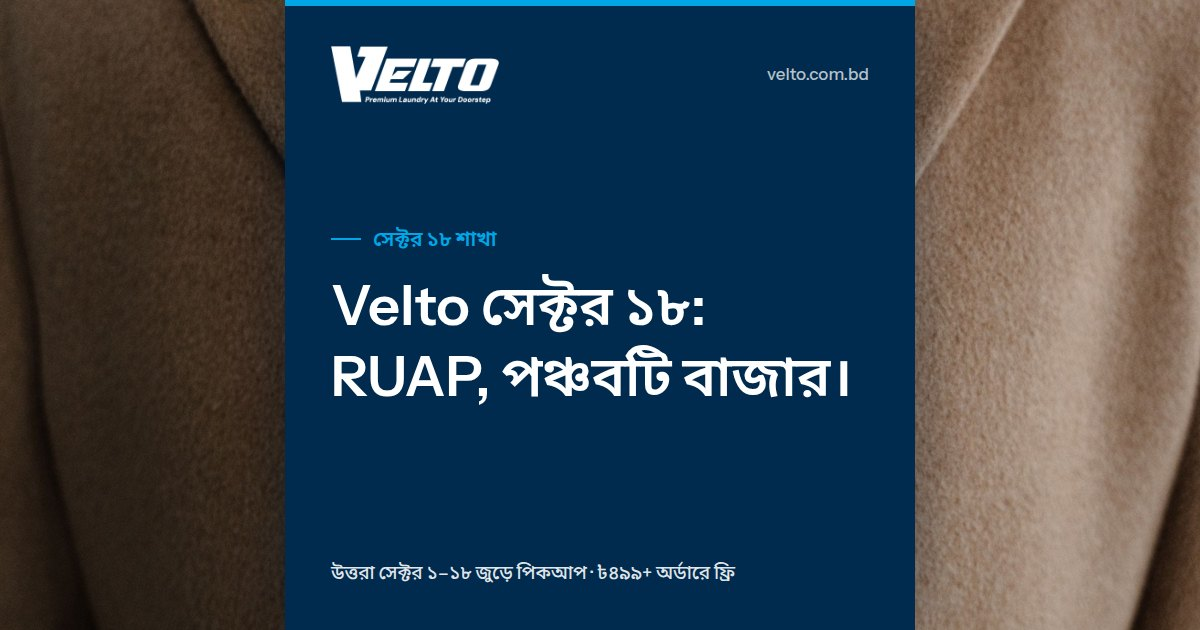
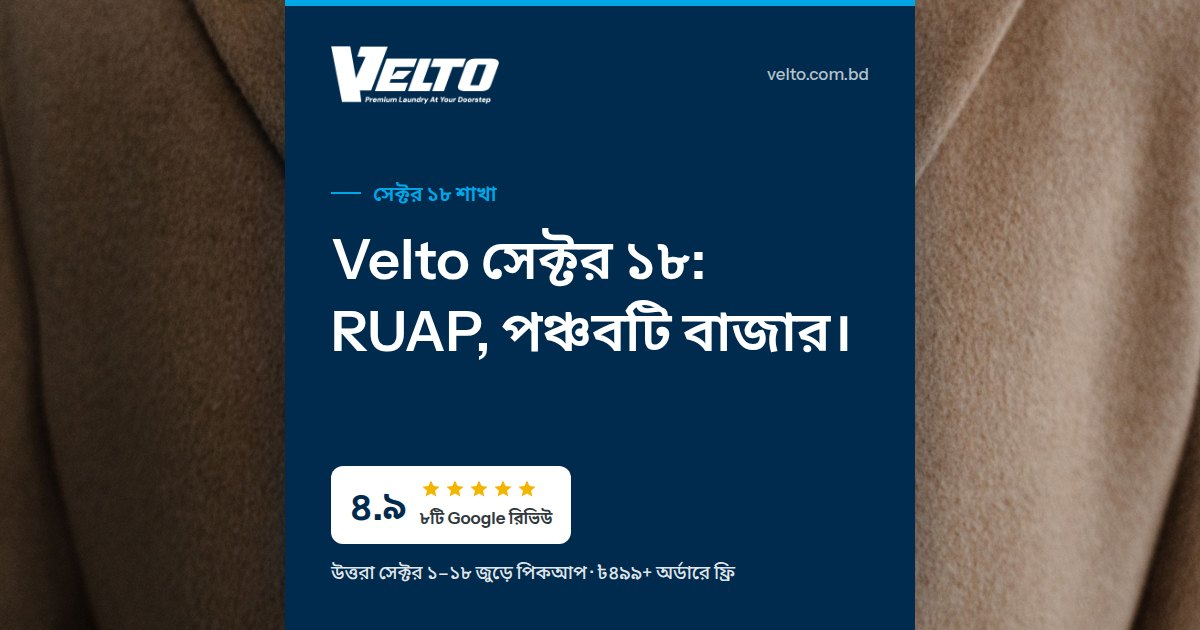
Share cards for the remaining pages; Sector 18's own rating
- Book, Quote and Track get cards in English and Bangla (via
  pageMetadata; the Bangla card is used although these pages stay out of
  the index)
- Sign in and Create account get cards through a new shareCardMetadata
  helper, in both languages
- Privacy, Terms and Cookie Policy get English cards (no Bangla version
  of those pages yet), without the rating badge
- Sector 18 now shows its own Google profile: 4.9 from 8 reviews (outlet
  settings in the Command Center), instead of no badge

Account pages and the 404 keep the default brand card.

Claude-Session: https://claude.ai/code/session_01A9jSKPykTPyhom5hxSyciV

Changed region(s): [[0.2775, 0.3619, 0.7092, 0.6333], [0.2775, 0.7238, 0.4933, 0.8746], [0.3083, 0.2714, 0.4317, 0.3317]]

diff --git a/src/lib/seo/page-metadata.ts b/src/lib/seo/page-metadata.ts
@@ -16,7 +16,7 @@ const DEFAULT_SHARE_IMAGE = { url: "/opengraph-image", width: 1200, height: 630 
  * the page's headline and photo. Other pages use the brand card.
  */
 const SHARE_CARD_PAGES = new Set([
-  "/", "/services", "/pricing", "/how-it-works", "/regular-laundry", "/locations", "/about",
+  "/", "/services", "/pricing", "/how-it-works", "/regular-laundry", "/locations", "/about", "/book", "/quote", "/track",
   "/locations/sector-11", "/locations/sector-18",
   ...["dry-cleaning", "wash-and-iron", "ironing", "curtain-cleaning", "carpet-cleaning", "blanket-comforter-cleaning", "express"].map((s) => `/services/${s}`),
 ]);
@@ -24,8 +24,14 @@ const SHARE_CARD_PAGES = new Set([
 /** The Bangla cards (name-bn.jpg) are in public/images/share: /bn pages show the Bangla headline. */
 const BANGLA_CARDS = true;
 
+/** Pages outside pageMetadata with their own card: sign-in, sign-up and the legal pages (English only). */
+const OWN_CARD_PAGES = new Set(["/login", "/signup"]);
+const BANGLA_UNINDEXED = new Set(["/book", "/quote", "/track"]);
+const ENGLISH_CARD_PAGES = new Set(["/privacy", "/terms", "/cookies"]);
+
 function shareImage(path: string, locale: "en" | "bn") {
-  if (!SHARE_CARD_PAGES.has(path)) return DEFAULT_SHARE_IMAGE;
+  if (ENGLISH_CARD_PAGES.has(path)) locale = "en";
+  else if (!SHARE_CARD_PAGES.has(path) && !OWN_CARD_PAGES.has(path)) return DEFAULT_SHARE_IMAGE;
   const name = path === "/" ? "home" : path.slice(1).replace(/\//g, "-");
   return { url: `/images/share/${name}${locale === "bn" && BANGLA_CARDS ? "-bn" : ""}.jpg`, width: 1200, height: 630 };
 }
@@ -51,7 +57,8 @@ export async function pageMetadata(path: string, options: { noindex?: boolean } 
   const description = (locale === "bn" ? override.descriptionBn : undefined) ?? local?.description ?? override.description ?? route?.description;
   const canonical = banglaIndexable(path) ? localizeHref(path, locale) : path;
   const untranslated = locale === "bn" && !banglaIndexable(path);
-  const card = shareImage(path, locale === "bn" && !untranslated ? "bn" : "en");
+  // Book, quote and track are in Bangla but kept out of the index, so they count as "untranslated" above.
+  const card = shareImage(path, locale === "bn" && (!untranslated || BANGLA_UNINDEXED.has(path)) ? "bn" : "en");
   return {
     title,
     description,
@@ -85,5 +92,18 @@ export async function alternatesFor(path: string): Promise<NonNullable<Metadata[
   return {
     canonical: localizeHref(path, await getLocale()),
     languages: { en: path, bn: localizeHref(path, "bn"), "x-default": path },
+  };
+}
+
+/**
+ * Share card for a page that builds its own metadata (sign-in, sign-up, legal pages).
+ * A page's openGraph object replaces the root one, so the title goes in with the image.
+ */
+export async function shareCardMetadata(path: string, title: string, description?: string): Promise<Pick<Metadata, "openGraph" | "twitter">> {
+  const locale = await getLocale();
+  const card = shareImage(path, locale === "bn" ? "bn" : "en");
+  return {
+    openGraph: { title, description, siteName: "Velto Premium Laundry", type: "website", images: [{ ...card, alt: title }] },
+    twitter: { card: "summary_large_image", title, description, images: [card.url] },
   };
 }

diff --git a/src/app/[lang]/(site)/signup/page.tsx b/src/app/[lang]/(site)/signup/page.tsx
@@ -5,13 +5,13 @@ import { AccountsUnavailable, SignedInNotice, StaffAccountNotice } from "@/compo
 import { authProviders } from "@/lib/customer/providers";
 import { getCustomerSession } from "@/lib/customer/portal";
 import { signedInAs, safeNextPath } from "@/lib/customer/validation";
-import { alternatesFor } from "@/lib/seo/page-metadata";
+import { alternatesFor, shareCardMetadata } from "@/lib/seo/page-metadata";
 import { accountText } from "@/content/i18n/account";
 import { getLocale } from "@/lib/i18n/server";
 
 export async function generateMetadata(): Promise<Metadata> {
   const title = accountText(await getLocale()).meta.signUp;
-  return { title, robots: { index: false, follow: false }, alternates: await alternatesFor("/signup") };
+  return { title, robots: { index: false, follow: false }, alternates: await alternatesFor("/signup"), ...(await shareCardMetadata("/signup", title)) };
 }
 
 type SearchParams = Promise<Record<string, string | string[] | undefined>>;

diff --git a/src/app/[lang]/(site)/login/page.tsx b/src/app/[lang]/(site)/login/page.tsx
@@ -6,13 +6,13 @@ import { AccountsUnavailable, SignedInNotice, StaffAccountNotice } from "@/compo
 import { authProviders } from "@/lib/customer/providers";
 import { getCustomerSession } from "@/lib/customer/portal";
 import { signedInAs, safeNextPath } from "@/lib/customer/validation";
-import { alternatesFor } from "@/lib/seo/page-metadata";
+import { alternatesFor, shareCardMetadata } from "@/lib/seo/page-metadata";
 import { accountText } from "@/content/i18n/account";
 import { getLocale } from "@/lib/i18n/server";
 
 export async function generateMetadata(): Promise<Metadata> {
   const title = accountText(await getLocale()).meta.signIn;
-  return { title, robots: { index: false, follow: false }, alternates: await alternatesFor("/login") };
+  return { title, robots: { index: false, follow: false }, alternates: await alternatesFor("/login"), ...(await shareCardMetadata("/login", title)) };
 }
 
 type SearchParams = Promise<Record<string, string | string[] | undefined>>;

diff --git a/src/app/[lang]/(site)/cookies/page.tsx b/src/app/[lang]/(site)/cookies/page.tsx
@@ -2,7 +2,7 @@ import type { Metadata } from "next";
 import Link from "@/components/i18n/Link";
 import { CookieSettingsButton } from "@/components/consent/CookieSettingsButton";
 import { LegalContact, LegalDocument, type LegalSection } from "@/components/legal/LegalDocument";
-import { alternatesFor } from "@/lib/seo/page-metadata";
+import { alternatesFor, shareCardMetadata } from "@/lib/seo/page-metadata";
 
 const baseMetadata: Metadata = {
   title: "Cookie Policy | Velto Premium Laundry",
@@ -11,7 +11,7 @@ const baseMetadata: Metadata = {
 };
 
 export async function generateMetadata(): Promise<Metadata> {
-  return { ...baseMetadata, alternates: await alternatesFor("/cookies") };
+  return { ...baseMetadata, alternates: await alternatesFor("/cookies"), ...(await shareCardMetadata("/cookies", String(baseMetadata.title), baseMetadata.description ?? undefined)) };
 }
 
 type Row = { name: string; purpose: string; duration: string; setBy: string };

diff --git a/src/app/[lang]/(site)/terms/page.tsx b/src/app/[lang]/(site)/terms/page.tsx
@@ -3,7 +3,7 @@ import Link from "@/components/i18n/Link";
 import { LegalContact, LegalDocument, type LegalSection } from "@/components/legal/LegalDocument";
 import { LEGAL } from "@/content/legal";
 import { FREE_DELIVERY_THRESHOLD, REGULAR_FREE_DELIVERY_THRESHOLD, SERVICE_AREA } from "@/content/site";
-import { alternatesFor } from "@/lib/seo/page-metadata";
+import { alternatesFor, shareCardMetadata } from "@/lib/seo/page-metadata";
 
 const baseMetadata: Metadata = {
   title: "Terms of Service | Velto Premium Laundry",
@@ -13,7 +13,7 @@ const baseMetadata: Metadata = {
 };
 
 export async function generateMetadata(): Promise<Metadata> {
-  return { ...baseMetadata, alternates: await alternatesFor("/terms") };
+  return { ...baseMetadata, alternates: await alternatesFor("/terms"), ...(await shareCardMetadata("/terms", String(baseMetadata.title), baseMetadata.description ?? undefined)) };
 }
 
 /*

diff --git a/src/app/[lang]/(site)/privacy/page.tsx b/src/app/[lang]/(site)/privacy/page.tsx
@@ -2,7 +2,7 @@ import type { Metadata } from "next";
 import Link from "@/components/i18n/Link";
 import { LegalContact, LegalDocument, type LegalSection } from "@/components/legal/LegalDocument";
 import { LEGAL } from "@/content/legal";
-import { alternatesFor } from "@/lib/seo/page-metadata";
+import { alternatesFor, shareCardMetadata } from "@/lib/seo/page-metadata";
 
 const baseMetadata: Metadata = {
   title: "Privacy Policy | Velto Premium Laundry",
@@ -12,7 +12,7 @@ const baseMetadata: Metadata = {
 };
 
 export async function generateMetadata(): Promise<Metadata> {
-  return { ...baseMetadata, alternates: await alternatesFor("/privacy") };
+  return { ...baseMetadata, alternates: await alternatesFor("/privacy"), ...(await shareCardMetadata("/privacy", String(baseMetadata.title), baseMetadata.description ?? undefined)) };
 }
 
 /*
